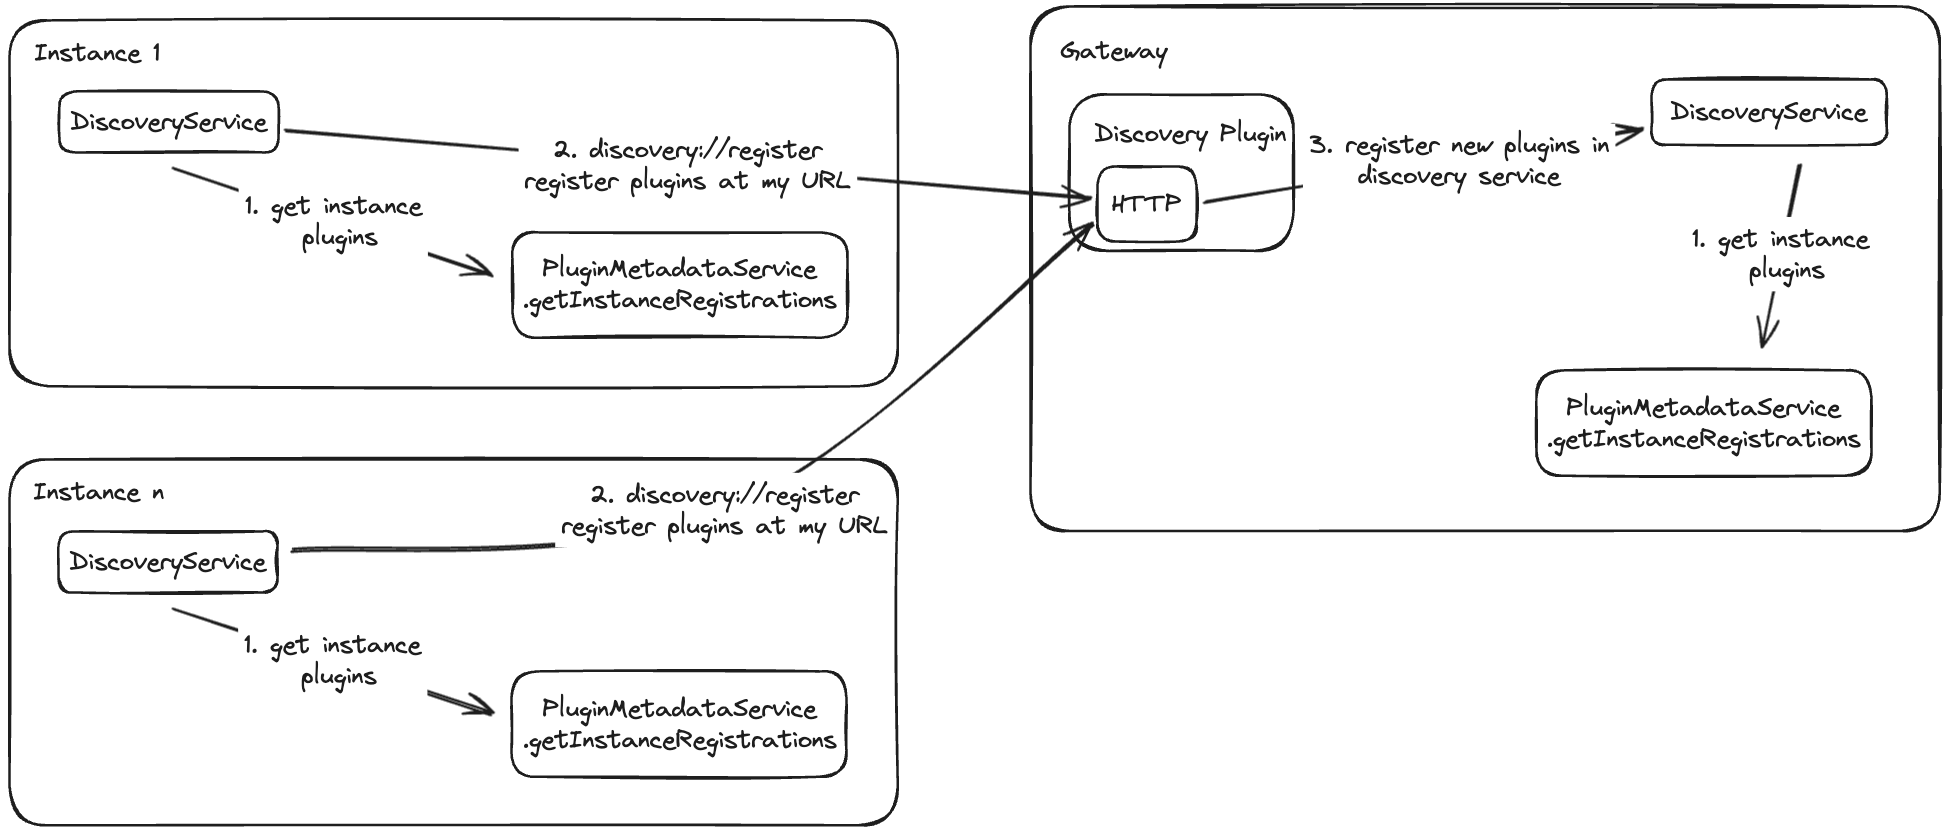
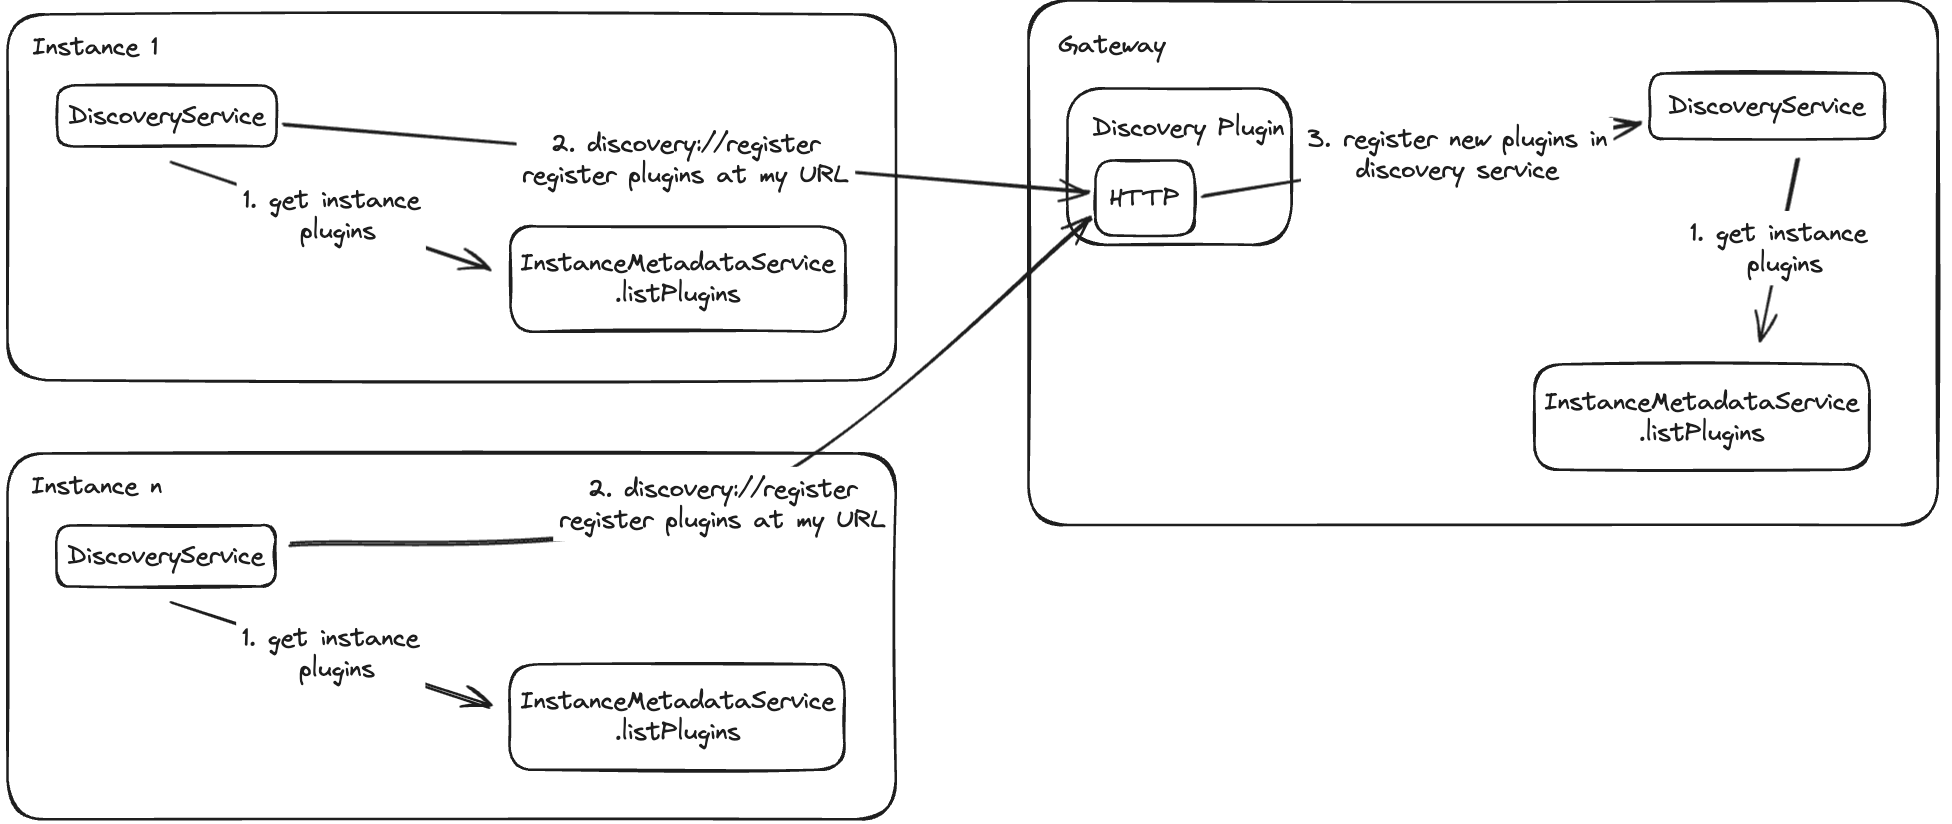
mention the new service

diff --git a/beps/0005-split-backend-discovery/README.md b/beps/0005-split-backend-discovery/README.md
@@ -98,9 +98,19 @@ change are understandable. This may include API specs or even code snippets.
 If there's any ambiguity about HOW your proposal will be implemented, this is the place to discuss them.
 -->
 
+### Backend Requests
+
 ![](./discovery.png)
 
+### Registration Flow
+
 ![](./registrations.png)
+
+#### New `InstanceMetadataService`
+
+While we could attach the existing information to the `PluginMetadataService`, we propose a new service that handles instance-level information. The existing `PluginMetadataService` should reveal information about the plugin itself, its pluginId, dependencies or similar. The new `InstanceMetadataService` should give you information about the entire Backstage instance that you're interrogating. At launch, this should include the list of plugins installed _on your instance_ that can then be aggregated by the discovery API across the gateway nodes. One could imagine this service also having information about instance URLs, health or gateway status.
+
+### Frontend Requests
 
 ![](./frontend.png)
 
